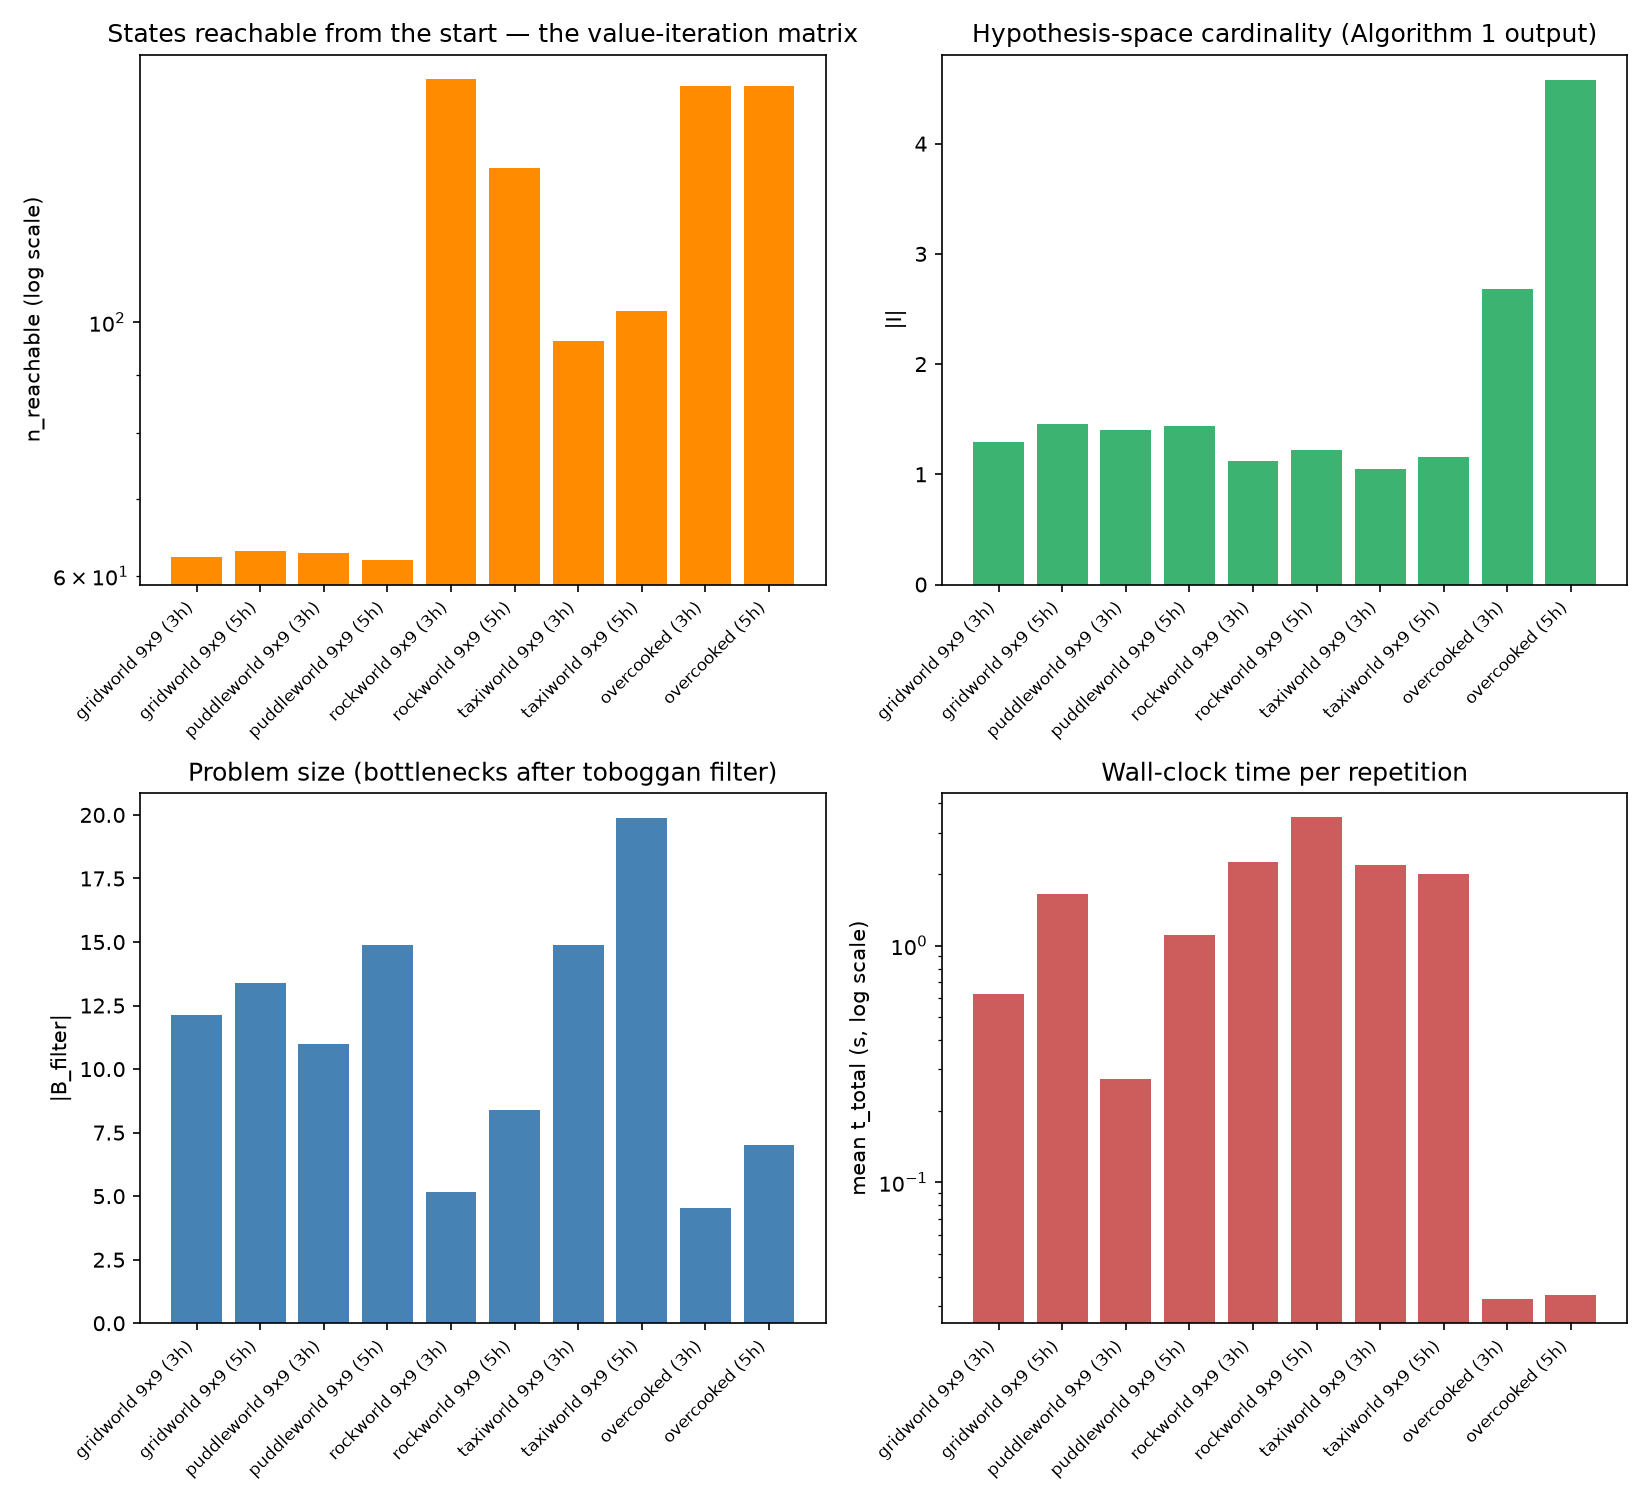
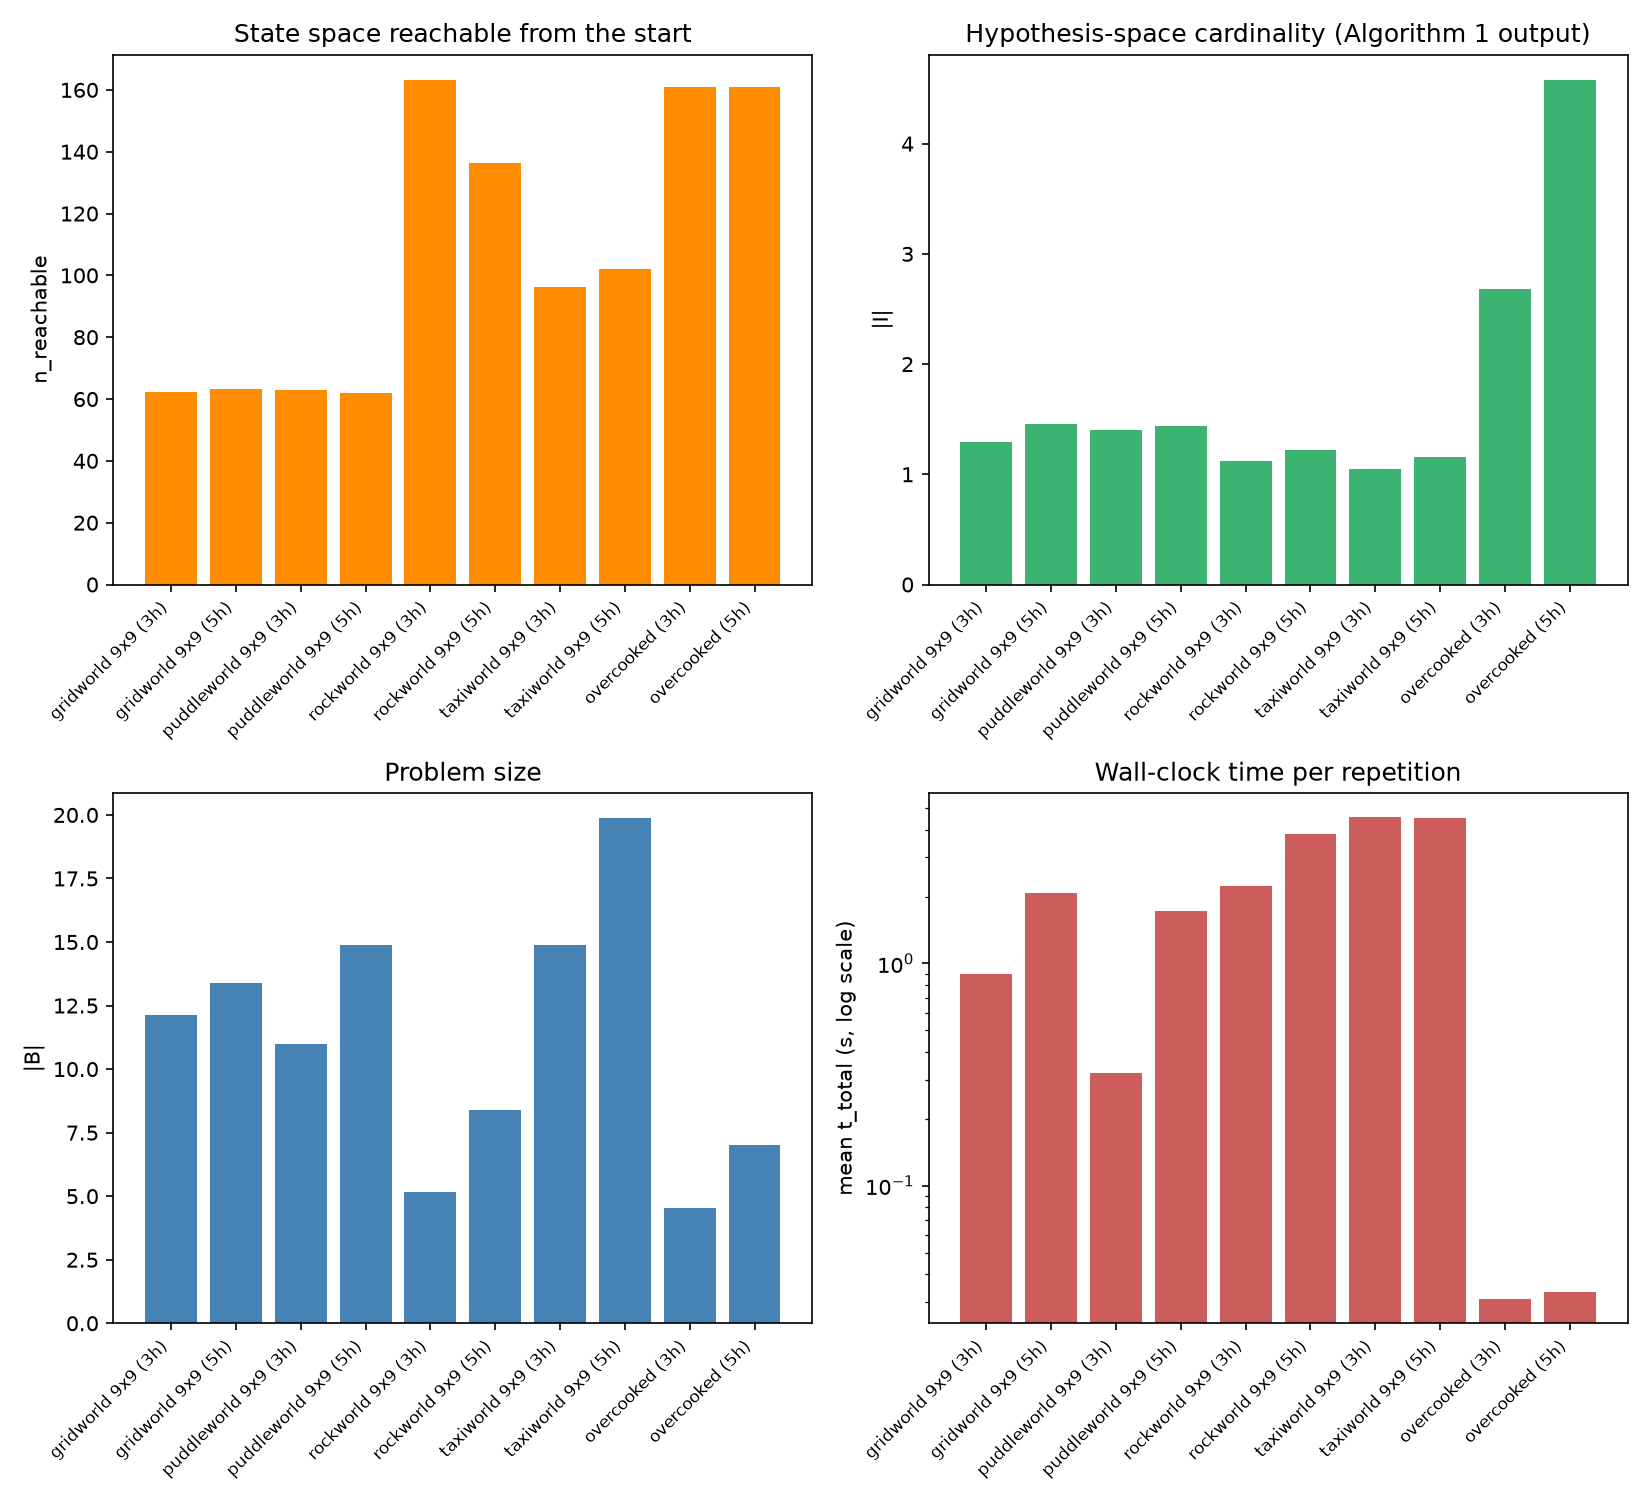
correcting the plots

diff --git a/experiment.py b/experiment.py
@@ -953,7 +953,11 @@ def _make_plots(times_path, queries_path, out_dir, conditions=CONDITIONS):
             seen.add(key)
             configs.append(key)
 
-    ncols = min(3, len(configs))
+    # Three across at most, except four, which goes 2x2 rather than 3+1 with two
+    # blanks.  Four is the count the default sweep produces, and the only one
+    # under nine where "three across" is the wrong answer: 3, 6 and 9 fill their
+    # rows exactly, and 5, 7 and 8 leave blanks whatever the width.
+    ncols = 2 if len(configs) == 4 else min(3, len(configs))
     nrows = int(np.ceil(len(configs) / ncols))
     fig, axes = plt.subplots(nrows, ncols, squeeze=False,
                              figsize=(6.5 * ncols, 4.6 * nrows))
@@ -1029,9 +1033,8 @@ def _make_plots(times_path, queries_path, out_dir, conditions=CONDITIONS):
     # more than two orders of magnitude (~38k states on paper, a few hundred
     # reachable), which is exactly what makes building T_R_sto affordable.
     axes[0, 0].bar(x_t, df_t["n_reachable"], color="darkorange")
-    axes[0, 0].set_yscale("log")
-    axes[0, 0].set_ylabel("n_reachable (log scale)")
-    axes[0, 0].set_title("States reachable from the start — the value-iteration matrix")
+    axes[0, 0].set_ylabel("n_reachable")
+    axes[0, 0].set_title("State space reachable from the start")
     _rotate_xticks(axes[0, 0], labels_t, x_t)
 
     axes[0, 1].bar(x_t, df_t["n_I"], color="mediumseagreen")
@@ -1040,8 +1043,8 @@ def _make_plots(times_path, queries_path, out_dir, conditions=CONDITIONS):
     _rotate_xticks(axes[0, 1], labels_t, x_t)
 
     axes[1, 0].bar(x_t, df_t["n_B_filter"], color="steelblue")
-    axes[1, 0].set_ylabel("|B_filter|")
-    axes[1, 0].set_title("Problem size (bottlenecks after toboggan filter)")
+    axes[1, 0].set_ylabel("|B|")
+    axes[1, 0].set_title("Problem size")
     _rotate_xticks(axes[1, 0], labels_t, x_t)
 
     axes[1, 1].bar(x_t, df_t["t_total"], color="indianred")

diff --git a/gridworld_core.py b/gridworld_core.py
@@ -469,7 +469,11 @@ class GridWorld:
                     gap += self.wall_char((i, j), (i + 1, j))
                     if j + 1 < self.board_side:
                         gap += " "
-                print(gap)
+                # Only the row boundaries that carry a wall get a line.  Between
+                # two rows inside the same room every crossing is open, so the
+                # line would be blank and would only stretch the board.
+                if gap.strip():
+                    print(gap)
 
     # ── Image rendering ──────────────────────────────────────────────────────
     # One entry per character cell_char() can return: (fill colour, text colour).
